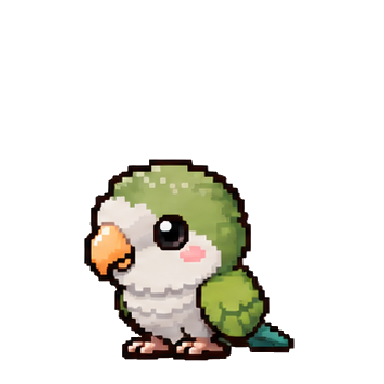
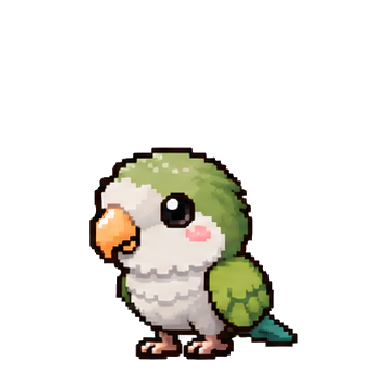
Nuôi thú: idle của Abu Bé chỉ nháy mắt (2 khung mở/nhắm, nháy ngẫu nhiên 2,5-6 giây, bản tạm từ gói Blink Head04Body02)

Changed region(s): [[0.2188, 0.375, 0.7812, 0.9375]]

diff --git a/server/pets.js b/server/pets.js
@@ -229,10 +229,10 @@ function moodOf(st) {
 const ART = { abu: true };
 const spriteUrl = (kind, stage) => (ART[kind] ? `/pets/${kind}/stage_${stage}.webp` : null);
 // Hoạt hình đã có (theo bạn và giai đoạn): idle, walk, happy. Giai đoạn nào chưa có thì hiển thị hình tĩnh.
-const ANIM = { abu: { 0: { idle: { fps: 6, n: 6 }, walk: { fps: 8, n: 6 }, happy: { fps: 8, n: 4 }, hungry: { fps: 6, n: 4 }, bored: { fps: 6, n: 4 }, dirty: { fps: 6, n: 4 }, sleepy: { fps: 6, n: 4 }, sad: { fps: 6, n: 4 }, eat: { fps: 6, n: 4 }, play: { fps: 8, n: 4 }, wash: { fps: 6, n: 4 }, sleep: { fps: 6, n: 4 } } } };
+const ANIM = { abu: { 0: { idle: { fps: 6, n: 2, blink: true }, walk: { fps: 8, n: 6 }, happy: { fps: 8, n: 4 }, hungry: { fps: 6, n: 4 }, bored: { fps: 6, n: 4 }, dirty: { fps: 6, n: 4 }, sleepy: { fps: 6, n: 4 }, sad: { fps: 6, n: 4 }, eat: { fps: 6, n: 4 }, play: { fps: 8, n: 4 }, wash: { fps: 6, n: 4 }, sleep: { fps: 6, n: 4 } } } };
 const animFor = (kind, stage) => {
   const a = ANIM[kind]?.[stage];
-  return a ? Object.fromEntries(Object.entries(a).map(([name, v]) => [name, { fps: v.fps, urls: Array.from({ length: v.n }, (_, i) => `/pets/${kind}/s${stage}/${name}/${String(i + 1).padStart(2, '0')}.webp`) }])) : null;
+  return a ? Object.fromEntries(Object.entries(a).map(([name, v]) => [name, { fps: v.fps, ...(v.blink ? { blink: true } : {}), urls: Array.from({ length: v.n }, (_, i) => `/pets/${kind}/s${stage}/${name}/${String(i + 1).padStart(2, '0')}.webp`) }])) : null;
 };
 const wearInfo = (slot, id) => { const it = id && ITEM[`${slot}:${id}`]; return it ? { id: it.id, name: it.name, emoji: it.emoji } : null; };
 export function petView(p, t, crowd, kinds = imgMap()) {

diff --git a/test/api.test.js b/test/api.test.js
@@ -1942,9 +1942,9 @@ test('Nuôi thú: cửa hàng đồ ăn, đồ chơi, nhà/lồng/bể; vật ph
     assert.equal(abuPet.sprite, '/pets/abu/stage_0.webp'); assert.equal(uni.sprite, null);
     assert.equal(s0.kinds.find((k) => k.id === 'abu').sprite, '/pets/abu/stage_0.webp');
     for (let n = 0; n < 4; n++) assert.ok((await import('node:fs')).existsSync(`public/pets/abu/stage_${n}.webp`));
-    // hoạt hình: Abu giai đoạn Bé có idle (6), walk (6), happy (4); tệp có thật; bạn khác chưa có
-    assert.deepEqual(Object.fromEntries(Object.entries(abuPet.anim).map(([k, v]) => [k, v.urls.length])), { idle: 6, walk: 6, happy: 4, hungry: 4, bored: 4, dirty: 4, sleepy: 4, sad: 4, eat: 4, play: 4, wash: 4, sleep: 4 });
-    assert.equal(abuPet.anim.walk.fps, 8); assert.equal(uni.anim, null);
+    // hoạt hình: Abu giai đoạn Bé có idle (2: mở và nhắm mắt, chỉ nháy mắt), walk (6), happy (4); tệp có thật; bạn khác chưa có
+    assert.deepEqual(Object.fromEntries(Object.entries(abuPet.anim).map(([k, v]) => [k, v.urls.length])), { idle: 2, walk: 6, happy: 4, hungry: 4, bored: 4, dirty: 4, sleepy: 4, sad: 4, eat: 4, play: 4, wash: 4, sleep: 4 });
+    assert.equal(abuPet.anim.walk.fps, 8); assert.equal(abuPet.anim.idle.blink, true); assert.equal(uni.anim, null);
     for (const a of Object.values(abuPet.anim)) for (const u of a.urls) assert.ok((await import('node:fs')).existsSync(`public${u}`), u);
     db.prepare('UPDATE pets SET food = 20, stat_at = ? WHERE id = ?').run(now(), uni.id);
     assert.equal((await call('POST', `/pets/${uni.id}/feed`, { food: 'dog_tiec' }, u.token)).status, 400);

diff --git a/public/pets.js b/public/pets.js
@@ -227,7 +227,12 @@ function mountAnims(root) {
     const step = () => {
       if (!el.isConnected || !P) return;
       const mode = animMode(id, el.dataset.scene === '1'), a = p.anim[mode] || p.anim.idle;
-      if (mode !== last) { last = mode; i = 0; }
+      if (mode !== last) { last = mode; i = 0; el._shut = false; }
+      if (a.blink) { // idle chỉ nháy mắt: mở mắt lâu (2,5 đến 6 giây), nhắm rất nhanh (~0,15 giây), thân không đổi
+        const shut = !!el._shut; img.src = a.urls[shut ? 1 : 0]; el._shut = !shut;
+        el._t = setTimeout(step, shut ? 150 : 2500 + Math.random() * 3500);
+        return;
+      }
       img.src = a.urls[i % a.urls.length]; i++;
       el._t = setTimeout(step, 1000 / a.fps);
     };

diff --git a/art/abu_idle_blink_v8/QA_REPORT.md b/art/abu_idle_blink_v8/QA_REPORT.md
@@ -1,0 +1,12 @@
+# QA Report — Abu Stage 0 Idle Blink (Head 04 / Body 02)
+
+Status: INCOMPLETE / VISUAL REVIEW REQUIRED
+
+- Frame size: 384x384 RGBA, verified
+- Frame count: 6 PNG files, verified
+- Open hold frames 01-03 and 05-06: identical to source frame 02 (verified)
+- Closed frame 04: composite preview from head frame 04 + body frame 02
+- Pixel difference bbox open vs closed: x=88..250, y=148..262
+- Looping GIF preview generated
+- Transparent pixels normalized to RGBA transparent black
+- Production QA not claimed; closed-frame composite needs visual review
